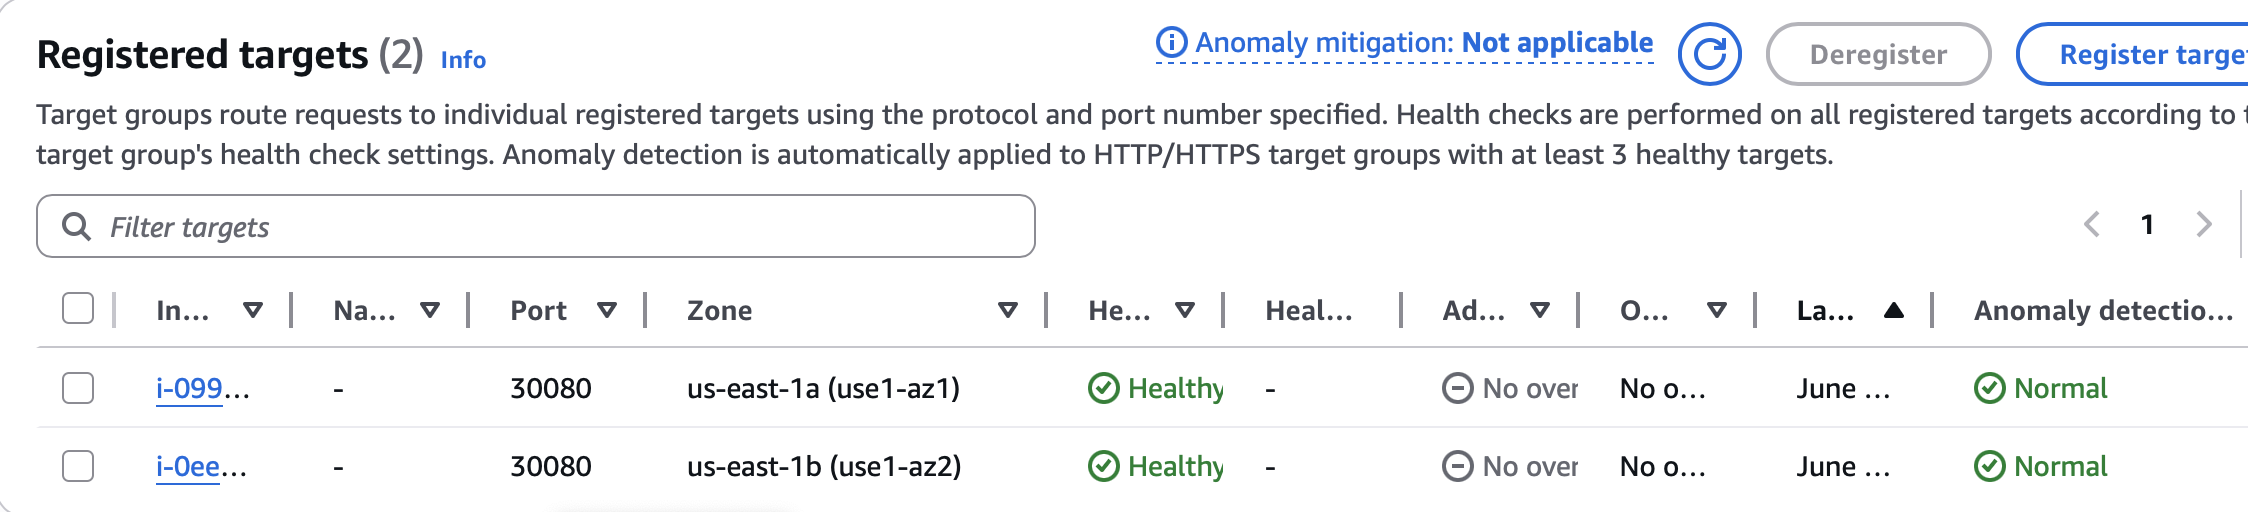
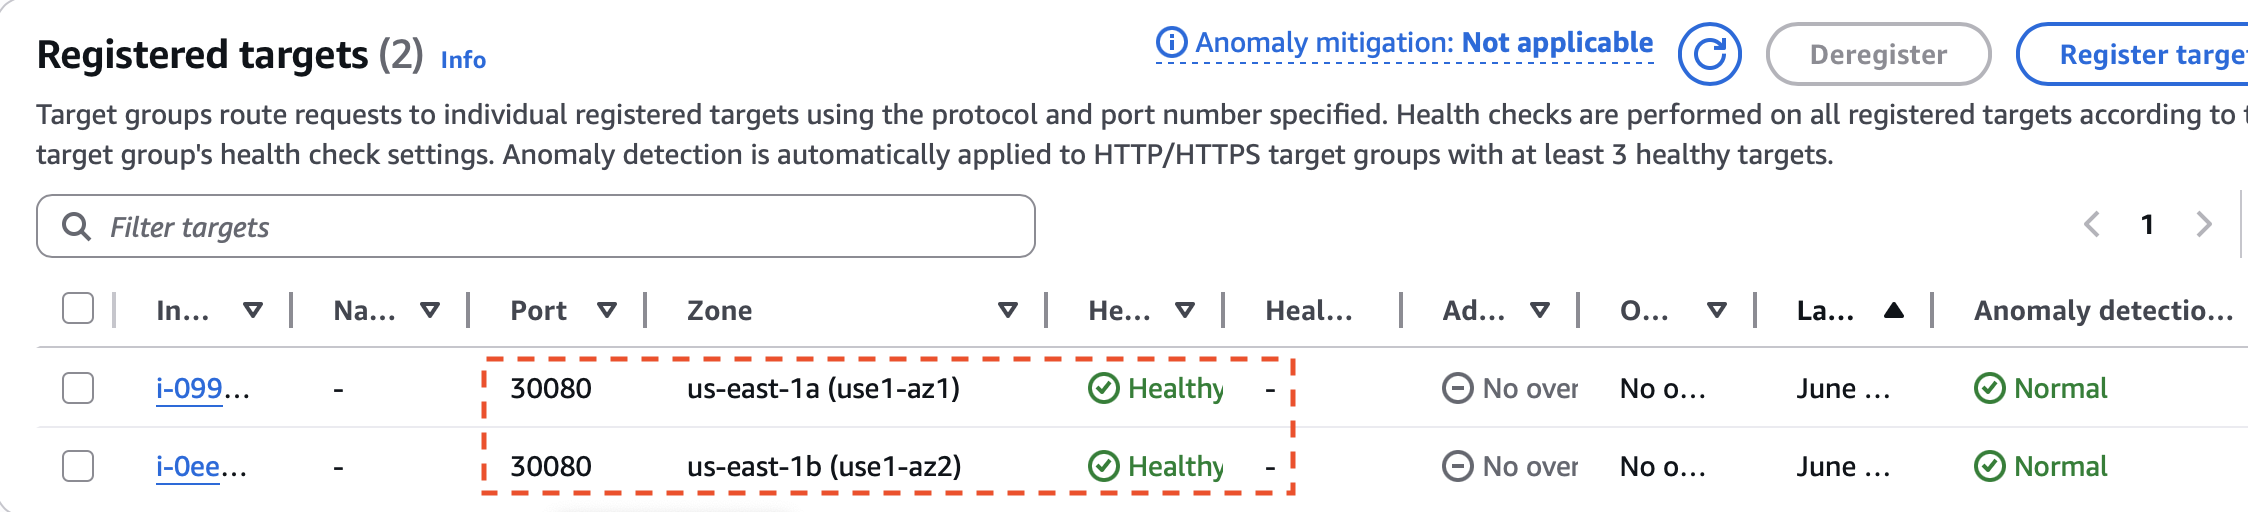
Update README with  week1 to week6 progression architecture

Changed region(s): [[0.218, 0.9375, 0.5916, 0.9688], [0.218, 0.6875, 0.5916, 0.7188]]

diff --git a/README.md b/README.md
@@ -997,13 +997,21 @@ Week 6 completed the migration from EC2-based container hosting to Kubernetes or
 
 The full 6-week progression tells a complete cloud engineering story:
 
-▸ Week 1: Built it — 3-tier AWS architecture with Terraform
-▸ Week 2: Secured it — remote state with S3 + DynamoDB
-▸ Week 3: Automated it — GitHub Actions CI/CD pipeline
-▸ Week 4: Containerized it — Docker + ECR
-▸ Week 5: Monitored it — CloudWatch, alarms, dashboards
-▸ Week 6: Orchestrated it — EKS, HPA, rolling deployments
+- Week 1: Built it — 3-tier AWS architecture with Terraform
+- Week 2: Secured it — remote state with S3 + DynamoDB
+- Week 3: Automated it — GitHub Actions CI/CD pipeline
+- Week 4: Containerized it — Docker + ECR
+- Week 5: Monitored it — CloudWatch, alarms, dashboards
+- Week 6: Orchestrated it — EKS, HPA, rolling deployments
 
 Infrastructure as Code → CI/CD → Containers → Observability → Kubernetes.
 
+## Week1 To Week6 Progression Diagram
 
+
+![Full Progression Diagram](docs/screenshots/week1-to-week6-progression-diagram.png)
+
+
+## Week1 To Week6 Architectural Diagram
+
+![week2 To Week6 Architecture](docs/screenshots/week2-to-week6-architecture.png)